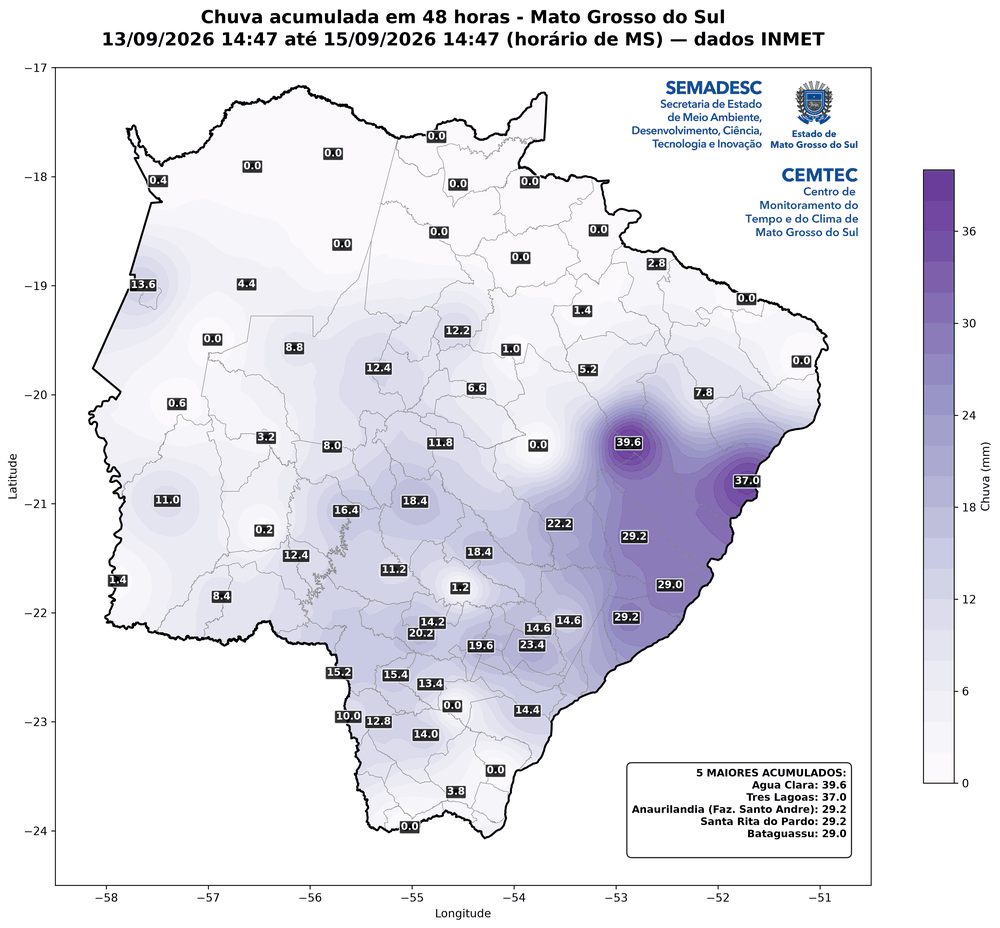
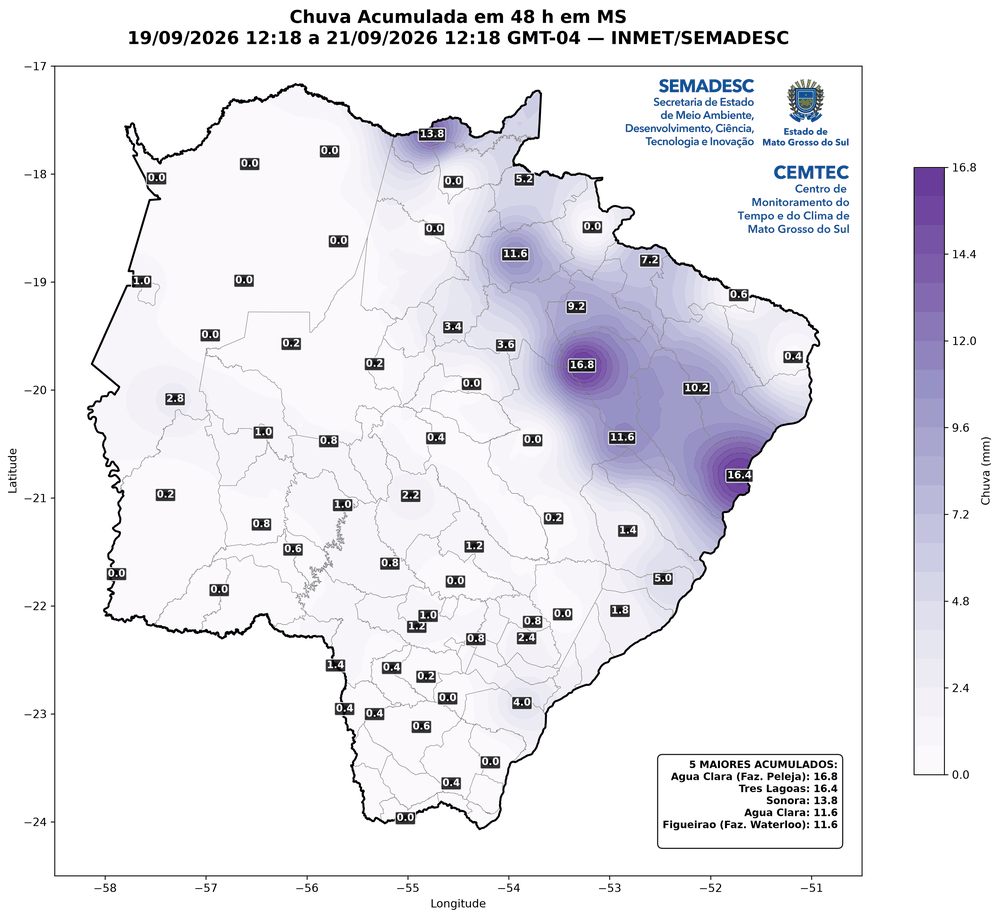
Padroniza os títulos e os subtítulos dos mapas dos dois produtos
Os títulos do relatorio_inmet passam a usar a sigla MS e a mesma forma
curta já adotada no risco_fogo:

- "Temperatura Mín. em MS" e "Temperatura Máx. em MS"
- "Umidade Rel. Mín. em MS"
- "Chuva Acumulada em 24 h em MS"
- "Rajadas de Vento em MS" e "Rajadas de Vento com Direção em MS"

O mapa de chuva era também o único que separava o nome do estado com
hífen, enquanto os outros cinco não usavam separador nenhum.

O subtítulo virou um só, no Periodo.descrever_janela, usado pelos dois
produtos: apenas as datas quando a janela cobre dias inteiros, e horário
com GMT-04 quando ela começa ou termina no meio do dia, que é quando a
hora faz diferença. O risco_fogo tinha uma cópia própria dessa regra,
criada para não alterar o outro produto sem o pedido da equipe; agora ela
sai, e a regra passa a valer para todos.

A linha de resumo do terminal acompanha a mudança no tempo real:
"Últimas 24 horas: 20/09/2026 12:18 a 21/09/2026 12:18 GMT-04".

Os cinco mapas de exemplo do relatorio_inmet no README foram regerados
com dados reais e os títulos novos.

Testes: 107.

diff --git a/modulos/produtos/relatorio_inmet.py b/modulos/produtos/relatorio_inmet.py
@@ -120,38 +120,38 @@ def montar_tabelas(resumos: list[dict[str, dict]], periodo: Periodo) -> dict[str
 # =====================================================
 def especificacoes_mapas(periodo: Periodo) -> list[EspecMapa]:
     """Mapas gerados pelo relatório, conforme o modo da consulta."""
-    uf, sigla = config.NOME_UF, config.UF
+    sigla = config.UF
     subtitulo = periodo.descrever_janela(*periodo.janela)
 
     especificacoes = [
-        EspecMapa("Temp_Min", "Temperatura Mínima (°C)", f"Temperatura mínima em {uf}", subtitulo,
+        EspecMapa("Temp_Min", "Temperatura Mínima (°C)", f"Temperatura Mín. em {sigla}", subtitulo,
                   f"Mapa_Temp_Min_{sigla}", "coolwarm", "Temperatura (°C)", "5 MENORES TEMPERATURAS", maiores=False),
-        EspecMapa("Temp_Max", "Temperatura Máxima (°C)", f"Temperatura máxima em {uf}", subtitulo,
+        EspecMapa("Temp_Max", "Temperatura Máxima (°C)", f"Temperatura Máx. em {sigla}", subtitulo,
                   f"Mapa_Temp_Max_{sigla}", "YlOrRd", "Temperatura (°C)", "5 MAIORES TEMPERATURAS"),
-        EspecMapa("Umidade", "Umidade Mín (%)", f"Umidade relativa mínima em {uf}", subtitulo,
+        EspecMapa("Umidade", "Umidade Mín (%)", f"Umidade Rel. Mín. em {sigla}", subtitulo,
                   f"Mapa_Umidade_{sigla}", "YlGnBu", "Umidade (%)", "5 MENORES UMIDADES", maiores=False),
     ]
 
     # (coluna, duração no título, sufixo do arquivo, paleta)
     if periodo.modo == "tempo_real":
-        chuvas = [("Acumulado 24h", "24 horas", "24h", "Blues"), ("Acumulado 48h", "48 horas", "48h", "Purples"),
-                  ("Acumulado 72h", "72 horas", "72h", "Blues")]
+        chuvas = [("Acumulado 24h", "24 h", "24h", "Blues"), ("Acumulado 48h", "48 h", "48h", "Purples"),
+                  ("Acumulado 72h", "72 h", "72h", "Blues")]
     elif periodo.modo == "dia" and periodo.dias_inteiros:
-        chuvas = [(coluna_chuva_principal(periodo), "24 horas", "24h", "Blues")]
+        chuvas = [(coluna_chuva_principal(periodo), "24 h", "24h", "Blues")]
     else:
-        duracao = f"{periodo.num_dias} dias" if periodo.dias_inteiros else f"{periodo.horas} horas"
+        duracao = f"{periodo.num_dias} dias" if periodo.dias_inteiros else f"{periodo.horas} h"
         chuvas = [(coluna_chuva_principal(periodo), duracao, "Periodo", "Blues")]
     for coluna, duracao, sufixo, cmap in chuvas:
         especificacoes.append(EspecMapa(
-            "Chuva", coluna, f"Chuva acumulada em {duracao} - {uf}",
+            "Chuva", coluna, f"Chuva Acumulada em {duracao} em {sigla}",
             periodo.descrever_janela(*janelas_chuva(periodo)[coluna]), f"Mapa_Chuva_{sufixo}_{sigla}",
             cmap, "Chuva (mm)", "5 MAIORES ACUMULADOS",
         ))
 
-    rajadas = EspecMapa("Vento", "Rajada (km/h)", f"Rajadas de vento em {uf}", subtitulo,
+    rajadas = EspecMapa("Vento", "Rajada (km/h)", f"Rajadas de Vento em {sigla}", subtitulo,
                         f"Mapa_Rajadas_{sigla}", "turbo", "Velocidade (km/h)", "5 MAIORES RAJADAS")
     especificacoes.append(rajadas)
-    especificacoes.append(replace(rajadas, titulo=f"Rajadas de vento com direção em {uf}",
+    especificacoes.append(replace(rajadas, titulo=f"Rajadas de Vento com Direção em {sigla}",
                                   arquivo=f"Mapa_Rajadas_Direcao_{sigla}", direcao_vento=True))
     return especificacoes
 

diff --git a/modulos/produtos/risco_fogo.py b/modulos/produtos/risco_fogo.py
@@ -221,22 +221,6 @@ def _espec_classes(titulo: str, subtitulo: str, arquivo: str) -> EspecClasses:
     return EspecClasses(titulo, subtitulo, arquivo, config.CORES_RISCO, config.ROTULOS_RISCO)
 
 
-def _subtitulo(periodo: Periodo) -> str:
-    """Data ou intervalo da consulta para o título do mapa.
-
-    O fuso (GMT-04, o horário de MS) só aparece quando o texto traz horário: numa data sozinha
-    ele não acrescenta nada. Não usa Periodo.descrever_janela para não mexer nos outros produtos.
-    """
-    inicio, fim = (momento.astimezone(config.FUSO_MS) for momento in periodo.janela)
-    if periodo.modo == "tempo_real":
-        return f"{inicio:%d/%m/%Y %H:%M} até {fim:%d/%m/%Y %H:%M} GMT-04"
-    if not periodo.dias_inteiros:
-        return f"{inicio:%d/%m/%Y %H:%M} a {fim:%d/%m/%Y %H:%M} GMT-04"
-    if periodo.primeiro_dia != periodo.ultimo_dia:
-        return f"{periodo.primeiro_dia:%d/%m/%Y} a {periodo.ultimo_dia:%d/%m/%Y}"
-    return f"{periodo.primeiro_dia:%d/%m/%Y}"
-
-
 def _indicadores_condicoes() -> Indicadores:
     """Pontos das condições atendidas nos mapas horários: temperatura à esquerda, umidade no meio, rajada à direita."""
     rotulos = [f"Temperatura máx. ≥ {config.LIMIAR_TEMP_MAX:g} °C",
@@ -259,7 +243,7 @@ def gerar_mapas(tabela: pd.DataFrame, horas: dict, periodo: Periodo, base: BaseC
         return
     pasta.mkdir(parents=True, exist_ok=True)
     identificador = periodo.identificador
-    subtitulo = _subtitulo(periodo)
+    subtitulo = periodo.descrever_janela(*periodo.janela)
 
     espec = _espec_classes(f"Risco de Fogo — Nível Máx. em {config.UF}", subtitulo,
                            f"Mapa_Risco_Fogo_Nivel_{config.UF}")

diff --git a/tests/test_periodo.py b/tests/test_periodo.py
@@ -69,12 +69,23 @@ def test_tempo_real():
     assert periodo.janela_busca == (agora - timedelta(hours=96), agora)
     assert periodo.inicio_do_dia == utc(2026, 9, 14, 4)  # 00 h de hoje em MS
     assert periodo.identificador == "20260914_0925"
-    assert periodo.descricao == "Últimas 24 horas: 13/09/2026 09:25 até 14/09/2026 09:25 (horário de MS)"
+    assert periodo.descricao == "Últimas 24 horas: 13/09/2026 09:25 a 14/09/2026 09:25 GMT-04"
 
 
 def test_hoje_do_tempo_real_segue_o_horario_de_ms():
     """Às 02 UTC ainda são 22 h do dia anterior em MS."""
     assert Periodo.tempo_real(utc(2026, 9, 14, 2, 0)).inicio_do_dia == utc(2026, 9, 13, 4)
+
+
+@pytest.mark.parametrize("periodo, texto", [
+    (Periodo.de_datas(date(2026, 9, 15), date(2026, 9, 15)), "15/09/2026"),
+    (Periodo.de_datas(date(2026, 8, 1), date(2026, 8, 31)), "01/08/2026 a 31/08/2026"),
+    (Periodo.de_datas(date(2026, 9, 15), date(2026, 9, 15), 6, 18), "15/09/2026 06:00 a 15/09/2026 18:00 GMT-04"),
+    (Periodo.tempo_real(utc(2026, 9, 14, 13, 25)), "13/09/2026 09:25 a 14/09/2026 09:25 GMT-04"),
+], ids=["dia", "periodo", "com_horas", "tempo_real"])
+def test_subtitulo_dos_mapas_traz_o_fuso_so_quando_ha_horario(periodo, texto):
+    """Subtítulo igual em todos os produtos: datas sozinhas sem fuso, horários com GMT-04."""
+    assert periodo.descrever_janela(*periodo.janela) == texto
 
 
 def test_pasta_de_saida_separada_por_produto_e_modo(monkeypatch, tmp_path):

diff --git a/modulos/config.py b/modulos/config.py
@@ -219,11 +219,16 @@ class Periodo:
         )
 
     def descrever_janela(self, inicio: datetime, fim: datetime) -> str:
-        """Texto de uma janela para os subtítulos dos mapas."""
-        if self.modo == "tempo_real":
-            return (f"{inicio.astimezone(FUSO_MS):%d/%m/%Y %H:%M} até "
-                    f"{fim.astimezone(FUSO_MS):%d/%m/%Y %H:%M} (horário de MS)")
-        return self.descricao
+        """Texto de uma janela para os subtítulos dos mapas, igual em todos os produtos.
+
+        Só as datas quando a janela cobre dias inteiros; com horário e fuso (GMT-04, o horário
+        de MS) quando começa ou termina no meio de um dia, que é quando a hora faz diferença.
+        """
+        inicio, fim = inicio.astimezone(FUSO_MS), fim.astimezone(FUSO_MS)
+        if inicio.time() == time.min and fim.time() == time.min:
+            primeiro, ultimo = inicio.date(), (fim - timedelta(microseconds=1)).date()
+            return f"{primeiro:%d/%m/%Y}" if primeiro == ultimo else f"{primeiro:%d/%m/%Y} a {ultimo:%d/%m/%Y}"
+        return f"{inicio:%d/%m/%Y %H:%M} a {fim:%d/%m/%Y %H:%M} GMT-04"
 
     def pasta_saida(self, produto: str) -> Path:
         """Pasta dos resultados: saida/<produto>/<modo>/<identificador>/."""

diff --git a/tests/test_risco_fogo.py b/tests/test_risco_fogo.py
@@ -151,18 +151,6 @@ def test_criterio_olha_as_estacoes_e_nao_a_superficie():
     assert risco_fogo.horas_para_mapear(horas) == {}
 
 
-# ---------- Títulos ----------
-
-@pytest.mark.parametrize("periodo, subtitulo", [
-    (DIA, "16/09/2026"),                                           # data sozinha: sem fuso
-    (PERIODO, "14/09/2026 a 16/09/2026"),                          # período de dias inteiros: sem fuso
-    (MANHA, "16/09/2026 06:00 a 16/09/2026 09:00 GMT-04"),         # com horário: com fuso
-    (TEMPO_REAL, "13/09/2026 09:25 até 14/09/2026 09:25 GMT-04"),
-], ids=["dia", "periodo", "janela_curta", "tempo_real"])
-def test_subtitulo_traz_o_fuso_so_quando_ha_horario(periodo, subtitulo):
-    assert risco_fogo._subtitulo(periodo) == subtitulo
-
-
 # ---------- Mapas horários ----------
 
 def test_estacoes_da_hora_trazem_as_condicoes_e_o_nivel_daquela_hora(serie):

diff --git a/tests/test_relatorio_inmet.py b/tests/test_relatorio_inmet.py
@@ -54,7 +54,7 @@ def test_dia_com_horarios_mostra_a_duracao_em_horas():
     periodo = Periodo.de_datas(date(2026, 9, 15), date(2026, 9, 15), 6, 18)
     assert list(relatorio_inmet.janelas_chuva(periodo)) == ["Acumulado Período"]
     titulos = [e.titulo for e in relatorio_inmet.especificacoes_mapas(periodo) if e.tabela == "Chuva"]
-    assert titulos == ["Chuva acumulada em 12 horas - Mato Grosso do Sul"]
+    assert titulos == ["Chuva Acumulada em 12 h em MS"]
 
 
 def test_chuva_do_dia_soma_24_leituras(serie):
